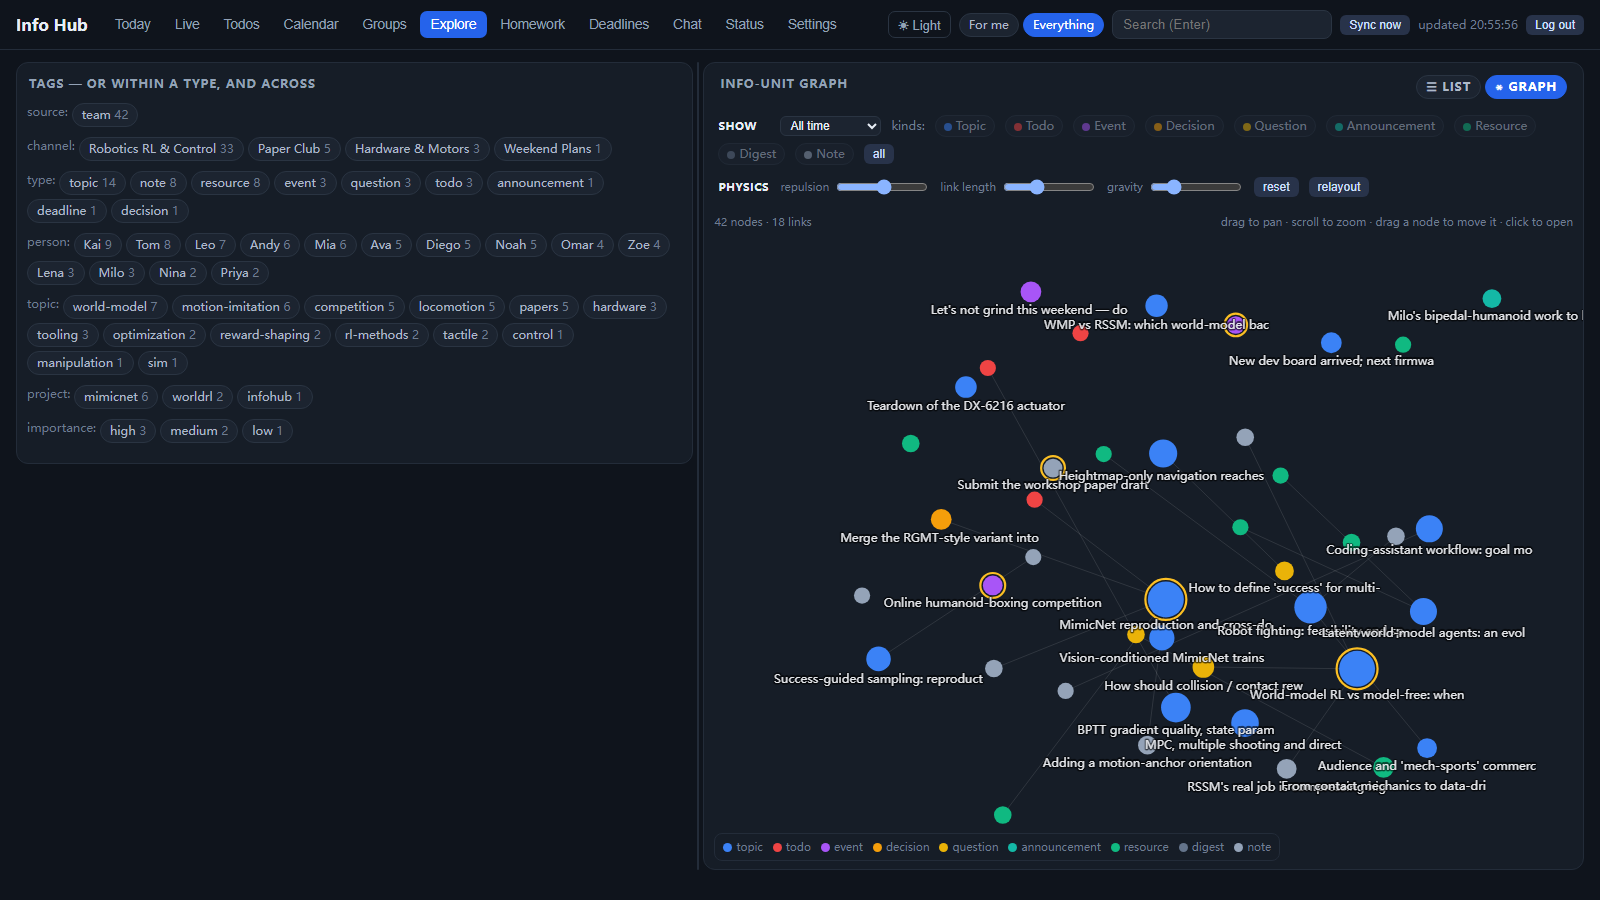
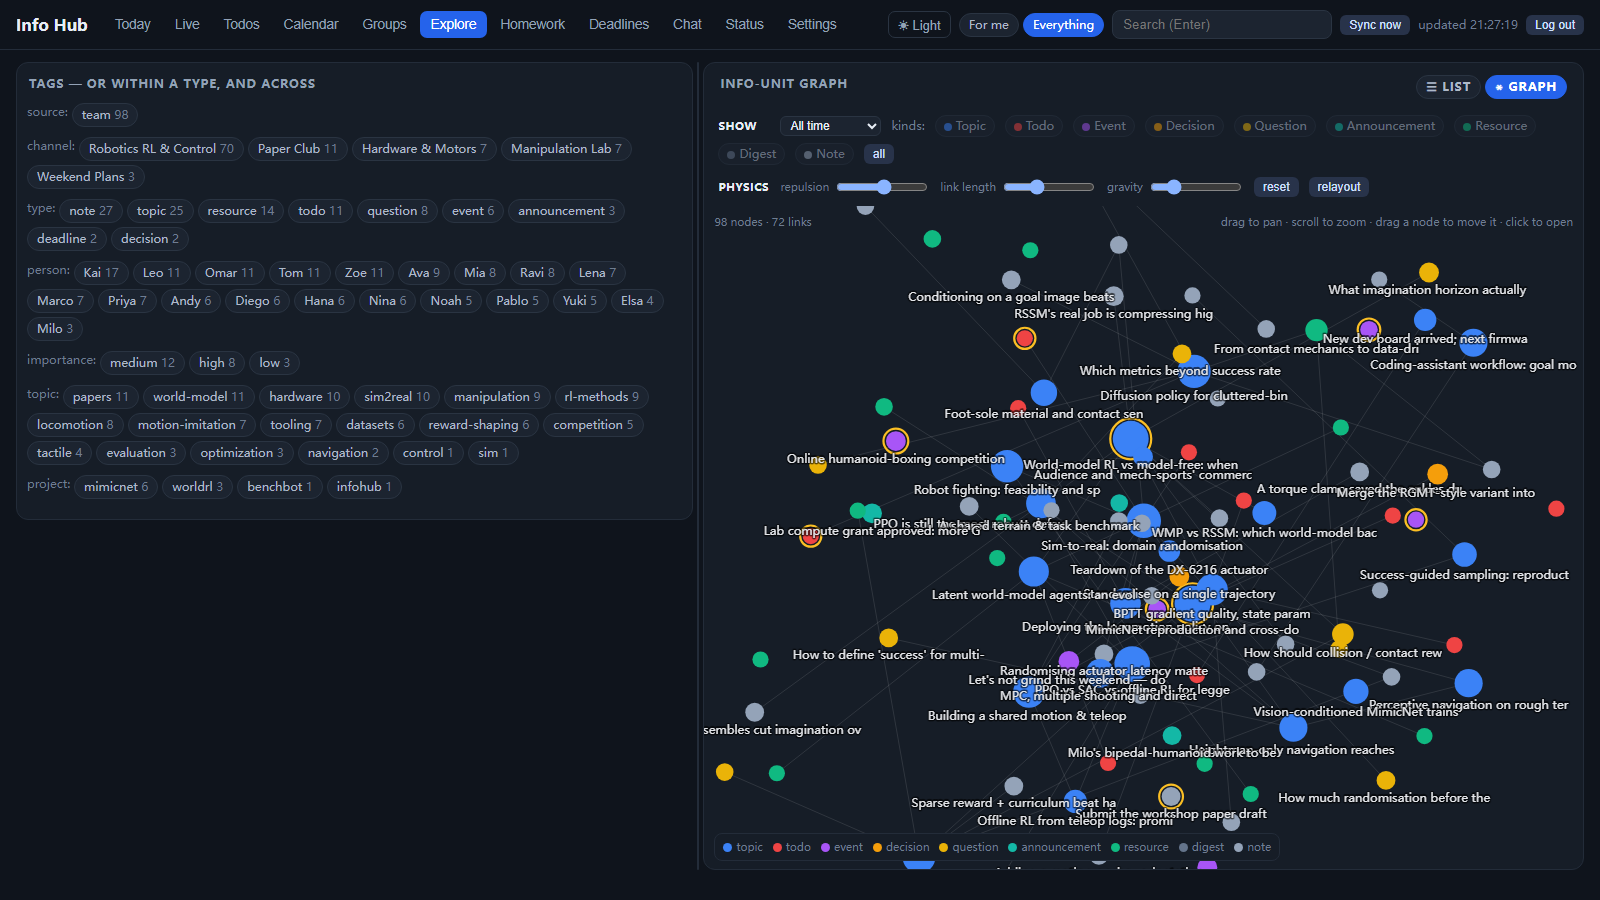
sync from private build @ a1c3c0f
🤖 Generated with [Claude Code](https://claude.com/claude-code)

diff --git a/scripts/seed_demo.py b/scripts/seed_demo.py
@@ -23,11 +23,12 @@ from infohub.organize import units as U            # noqa: E402
 from infohub.store import Store                     # noqa: E402
 
 SOURCE = "team"                                     # a generic, platform-neutral source
-PEOPLE = ["Tom", "Mia", "Andy", "Lena", "Kai", "Priya", "Diego", "Milo",
-          "Noah", "Ava", "Leo", "Zoe", "Omar", "Nina"]
+PEOPLE = ["Tom", "Mia", "Andy", "Lena", "Kai", "Priya", "Diego", "Milo", "Noah", "Ava",
+          "Leo", "Zoe", "Omar", "Nina", "Ravi", "Yuki", "Elsa", "Marco", "Hana", "Pablo"]
 CHANNELS = [
     ("rl-control", "Robotics RL & Control", "watch"),
     ("paper-club", "Paper Club", "watch"),
+    ("manip", "Manipulation Lab", "watch"),
     ("hardware", "Hardware & Motors", "digest"),
     ("weekend", "Weekend Plans", "store"),
 ]
@@ -156,6 +157,161 @@ UNITS = [
      "", ["topic:competition"], ["Diego"], 5, 1, "fight", None),
     ("fight-ref", "resource", "rl-control", "A pack of 800 motion clips for choreographed moves",
      "", ["topic:competition", "topic:motion-imitation"], ["Noah"], 2, 2, "fight", None),
+
+    # --- more world-model children ---
+    ("wm-ensemble", "note", "rl-control", "Model ensembles cut imagination over-optimism a lot",
+     "", ["topic:world-model"], ["Ava", "Ravi"], 4, 1, "wm", None),
+    ("wm-horizon", "question", "rl-control", "What imagination horizon actually helps on hardware?",
+     "", ["topic:world-model"], ["Tom", "Yuki"], 5, 1, "wm", None),
+    ("wm-latent", "note", "rl-control", "Stochastic latent beats deterministic on contact-rich tasks",
+     "", ["topic:world-model"], ["Kai"], 3, 2, "wm", None),
+    ("wm-replay", "todo", "rl-control", "Add prioritised sim replay to the world-model trainer",
+     "", ["project:WorldRL"], ["Ravi"], 2, 1, "wm-bptt", "medium"),
+    ("wm-grad", "note", "rl-control", "tanh squashing stabilises analytical-gradient policy updates",
+     "", ["topic:world-model", "topic:optimization"], ["Leo"], 3, 2, "wm-bptt", None),
+
+    # --- reward shaping topic ---
+    ("reward", "topic", "rl-control", "Reward shaping without reward hacking",
+     "Thread on dense vs sparse rewards and how shaping leaks into exploit behaviour.",
+     ["topic:reward-shaping", "topic:rl-methods"], ["Ava", "Tom", "Elsa"], 17, 1, None, "medium"),
+    ("reward-sparse", "note", "rl-control", "Sparse reward + curriculum beat hand-tuned dense reward here",
+     "", ["topic:reward-shaping"], ["Elsa"], 4, 1, "reward", None),
+    ("reward-pbrs", "resource", "paper-club", "Potential-based reward shaping: the invariance result",
+     "", ["topic:reward-shaping", "topic:papers"], ["Mia"], 2, 3, "reward", None),
+    ("reward-q", "question", "rl-control", "Does reward normalisation change the optimal policy?",
+     "", ["topic:reward-shaping"], ["Yuki"], 3, 2, "reward", None),
+
+    # --- RL methods topic ---
+    ("rlm", "topic", "rl-control", "PPO vs SAC vs offline RL for legged control",
+     "Comparison of on-policy, off-policy and offline methods for the group's tasks.",
+     ["topic:rl-methods"], ["Leo", "Kai", "Ravi", "Marco"], 22, 0, None, "high"),
+    ("rlm-ppo", "note", "rl-control", "PPO is still the most robust default for locomotion",
+     "", ["topic:rl-methods", "topic:locomotion"], ["Kai"], 4, 0, "rlm", None),
+    ("rlm-sac", "note", "rl-control", "SAC needs careful entropy tuning on high-DoF humanoids",
+     "", ["topic:rl-methods"], ["Marco"], 3, 1, "rlm", None),
+    ("rlm-offline", "topic", "rl-control", "Offline RL from teleop logs: promising but brittle",
+     "", ["topic:rl-methods", "topic:datasets"], ["Ravi", "Priya"], 9, 1, "rlm", None),
+    ("rlm-todo", "todo", "rl-control", "Benchmark PPO and SAC on the shared terrain suite",
+     "", ["topic:rl-methods"], ["Marco"], 2, 0, "rlm", "medium"),
+
+    # --- sim-to-real topic ---
+    ("s2r", "topic", "rl-control", "Sim-to-real: domain randomisation vs system identification",
+     "Long debate on closing the reality gap for the new biped.",
+     ["topic:sim2real"], ["Zoe", "Kai", "Hana"], 19, 0, None, "high"),
+    ("s2r-dr", "note", "rl-control", "Randomising actuator latency mattered more than mass",
+     "", ["topic:sim2real"], ["Hana"], 4, 1, "s2r", None),
+    ("s2r-sysid", "note", "rl-control", "A quick sys-id of the gearbox halved the gap",
+     "", ["topic:sim2real", "topic:hardware"], ["Omar", "Zoe"], 3, 1, "s2r", None),
+    ("s2r-q", "question", "rl-control", "How much randomisation before the policy gets too conservative?",
+     "", ["topic:sim2real"], ["Zoe"], 4, 2, "s2r", None),
+    ("s2r-todo", "todo", "rl-control", "Measure real actuator latency and feed it into randomisation",
+     "", ["topic:sim2real"], ["Hana"], 2, 0, "s2r", "medium"),
+
+    # --- datasets topic ---
+    ("data", "topic", "rl-control", "Building a shared motion & teleop dataset",
+     "Plan for a common dataset the group can train imitation and offline RL on.",
+     ["topic:datasets"], ["Priya", "Lena", "Ravi"], 14, 1, None, "medium"),
+    ("data-format", "decision", "rl-control", "Standardise on a single trajectory schema",
+     "", ["topic:datasets"], ["Lena"], 5, 1, "data", None),
+    ("data-clean", "todo", "rl-control", "Write a cleaner that drops corrupt teleop episodes",
+     "", ["topic:datasets"], ["Ravi"], 2, 1, "data", "low"),
+    ("data-aug", "note", "rl-control", "Mirror augmentation doubled effective demo count",
+     "", ["topic:datasets", "topic:motion-imitation"], ["Diego"], 3, 2, "data", None),
+
+    # --- benchmarking / evaluation ---
+    ("bench", "topic", "rl-control", "A shared terrain & task benchmark suite",
+     "Proposal for a common benchmark so results are comparable across members.",
+     ["topic:evaluation"], ["Marco", "Kai", "Elsa"], 12, 1, None, "medium"),
+    ("bench-metrics", "question", "rl-control", "Which metrics beyond success rate should we report?",
+     "", ["topic:evaluation"], ["Elsa"], 4, 1, "bench", None),
+    ("bench-repo", "resource", "rl-control", "Draft benchmark harness repo",
+     "", ["topic:evaluation", "project:BenchBot"], ["Marco"], 2, 1, "bench", None),
+
+    # --- manipulation lab channel ---
+    ("grasp", "topic", "manip", "Diffusion policy for cluttered-bin grasping",
+     "Manipulation-lab thread on diffusion policies for grasping in clutter.",
+     ["topic:manipulation"], ["Priya", "Omar", "Pablo"], 18, 0, None, "high"),
+    ("grasp-cond", "note", "manip", "Conditioning on a goal image beats one-hot object id",
+     "", ["topic:manipulation"], ["Pablo"], 4, 0, "grasp", None),
+    ("grasp-tac", "note", "manip", "Tactile feedback cut slip failures by half",
+     "", ["topic:manipulation", "topic:tactile"], ["Priya"], 3, 1, "grasp", None),
+    ("grasp-todo", "todo", "manip", "Collect 200 more clutter scenes for the grasp set",
+     "", ["topic:manipulation", "topic:datasets"], ["Pablo"], 2, 0, "grasp", "medium"),
+    ("grasp-q", "question", "manip", "Does an end-effector cam help over a wrist cam for clutter?",
+     "", ["topic:manipulation"], ["Omar"], 3, 1, "grasp", None),
+    ("bimanual", "topic", "manip", "Bimanual handover: coordination and timing",
+     "", ["topic:manipulation"], ["Priya", "Hana"], 9, 2, None, None),
+    ("bimanual-note", "note", "manip", "Shared latent for both arms reduced jerky handoffs",
+     "", ["topic:manipulation"], ["Hana"], 3, 2, "bimanual", None),
+
+    # --- deployment / real robot ---
+    ("deploy", "topic", "rl-control", "Deploying the locomotion policy on the real biped",
+     "Field notes from first real-robot deployment of the trained policy.",
+     ["topic:sim2real", "topic:locomotion"], ["Zoe", "Omar", "Kai"], 16, 0, None, "high"),
+    ("deploy-safe", "note", "rl-control", "A torque clamp saved the ankles during the first run",
+     "", ["topic:sim2real", "topic:hardware"], ["Omar"], 4, 0, "deploy", None),
+    ("deploy-todo", "todo", "rl-control", "Log joint temperatures during long real-robot runs",
+     "", ["topic:hardware"], ["Nina"], 2, 0, "deploy", "medium"),
+    ("deploy-dl", "deadline", "rl-control", "Freeze the deployment build before the lab demo",
+     "", ["type:deadline", "topic:sim2real"], ["Zoe", "Kai"], 3, 1, None, "high"),
+
+    # --- navigation ---
+    ("nav", "topic", "rl-control", "Perceptive navigation on rough terrain",
+     "", ["topic:locomotion", "topic:navigation"], ["Kai", "Zoe", "Yuki"], 13, 2, None, None),
+    ("nav-height", "note", "rl-control", "Heightmap smoothing removed a nasty foot-trap failure",
+     "", ["topic:navigation"], ["Yuki"], 3, 2, "nav", None),
+
+    # --- more paper club ---
+    ("pc-diff", "resource", "paper-club", "Paper: diffusion policies for manipulation (arXiv)",
+     "", ["topic:papers", "topic:manipulation"], ["Pablo"], 2, 2, "pc", None),
+    ("pc-s2r", "resource", "paper-club", "Survey: sim-to-real transfer methods",
+     "", ["topic:papers", "topic:sim2real"], ["Hana"], 2, 3, None, None),
+    ("pc-offline", "resource", "paper-club", "Paper: conservative Q-learning for offline RL (arXiv)",
+     "", ["topic:papers", "topic:rl-methods"], ["Ravi"], 2, 4, None, None),
+    ("pc-meeting", "event", "paper-club", "Paper club: Thursday 4pm, two world-model papers",
+     "", ["type:event", "topic:papers"], ["Mia"], 3, 1, None, None),
+    ("pc-todo", "todo", "paper-club", "Prepare slides for the latent-imagination paper",
+     "", ["topic:papers"], ["Ava"], 2, 1, "pc", "medium"),
+
+    # --- more hardware ---
+    ("hw-foot", "topic", "hardware", "Foot-sole material and contact sensing options",
+     "", ["topic:hardware", "topic:tactile"], ["Omar", "Nina", "Pablo"], 10, 2, None, None),
+    ("hw-foot-note", "note", "hardware", "Softer soles improved contact estimation but cost torque",
+     "", ["topic:hardware"], ["Nina"], 3, 2, "hw-foot", None),
+    ("hw-cal", "todo", "hardware", "Recalibrate the IMU after the mount change",
+     "", ["topic:hardware"], ["Omar"], 2, 1, "hw-beni", "low"),
+    ("hw-order", "note", "hardware", "Spare actuators ordered; ETA next week",
+     "", ["topic:hardware"], ["Nina"], 2, 3, None, None),
+
+    # --- more tooling ---
+    ("llm-eval", "note", "rl-control", "A small eval harness caught two silent prompt regressions",
+     "", ["topic:tooling"], ["Leo"], 3, 1, "llm", None),
+    ("tool-wandb", "resource", "rl-control", "Shared experiment-tracking dashboard template",
+     "", ["topic:tooling"], ["Marco"], 2, 2, None, None),
+    ("tool-env", "note", "rl-control", "Pinned the sim version to stop flaky reward drift",
+     "", ["topic:tooling", "topic:sim2real"], ["Ravi"], 2, 1, None, None),
+
+    # --- more events / announcements / weekend ---
+    ("ev-standup", "event", "rl-control", "Weekly standup moved to Monday 10am",
+     "", ["type:event"], ["Tom"], 2, 1, None, None),
+    ("ann-grant", "announcement", "rl-control", "Lab compute grant approved: more GPU hours",
+     "", ["topic:tooling"], ["Lena"], 5, 2, None, "medium"),
+    ("ann-intern", "announcement", "rl-control", "Two summer research interns joining next month",
+     "", [], ["Lena"], 3, 3, None, None),
+    ("wk-hike", "event", "weekend", "Saturday hike + robotics-movie night",
+     "", ["type:event"], ["Zoe", "Ava", "Marco"], 5, 1, None, None),
+    ("wk-food", "note", "weekend", "New ramen place near the lab is worth trying",
+     "", [], ["Leo", "Yuki"], 3, 2, None, None),
+]
+
+# Extra cross-links so units can have several parents (a richer "knot" graph). (parent_ref, child_ref)
+EXTRA_LINKS = [
+    ("wm", "wm-bptt"), ("pc", "wm"), ("pc-wmp", "wm"), ("rlm", "loco-sgs"),
+    ("reward", "wm-reward"), ("reward", "mimic-imag"), ("data", "mimic"),
+    ("data", "rlm-offline"), ("s2r", "deploy"), ("s2r", "loco"), ("deploy", "loco"),
+    ("bench", "rlm"), ("bench", "loco"), ("grasp", "tac"), ("bimanual", "grasp"),
+    ("nav", "loco"), ("mpc", "wm-bptt"), ("tac", "grasp-tac"), ("hw-foot", "s2r-sysid"),
+    ("rlm", "reward"),
 ]
 
 
@@ -196,7 +352,11 @@ def seed(db_path: str) -> None:
     for (ref, kind, chan, title, summary, tags, people, n_msgs, days_ago, parent, importance) in UNITS:
         if parent and parent in refs:
             U.link(store, refs[parent], refs[ref])
-    for ref in ("hw-dl", "ev-visit", "ev-box", "wm", "mimic", "hw-dl"):
+    for parent, child in EXTRA_LINKS:                 # cross-links (cycle-safe; ignored if they'd loop)
+        if parent in refs and child in refs:
+            U.link(store, refs[parent], refs[child])
+    for ref in ("hw-dl", "ev-visit", "ev-box", "wm", "mimic", "deploy-dl", "rlm-todo",
+                "s2r-todo", "grasp-todo", "pc-meeting", "ev-standup"):
         if ref in refs:
             store.q("UPDATE units SET for_me=1 WHERE id=?", (refs[ref],))
     store.db.commit()
